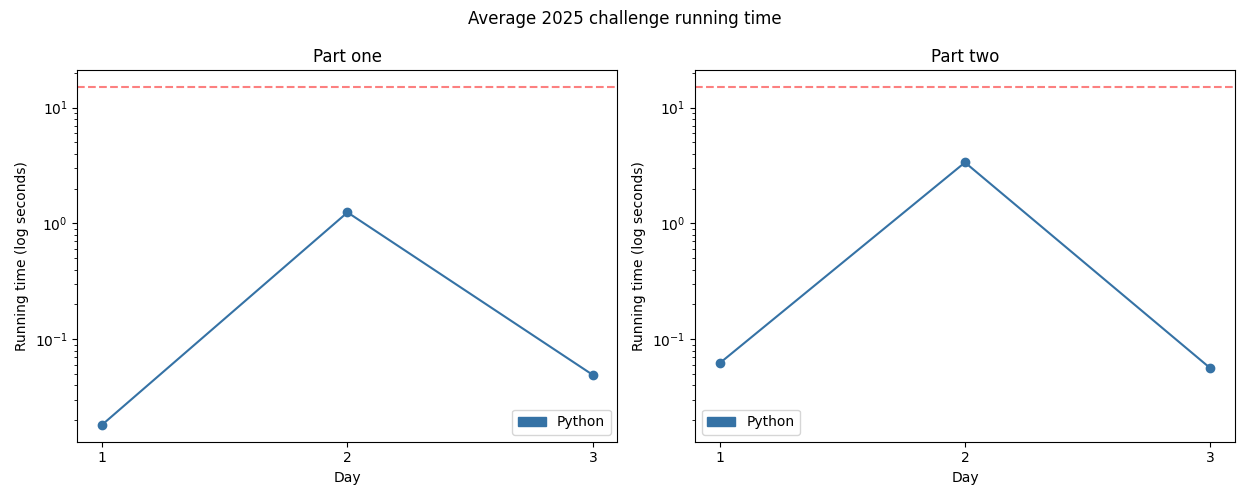
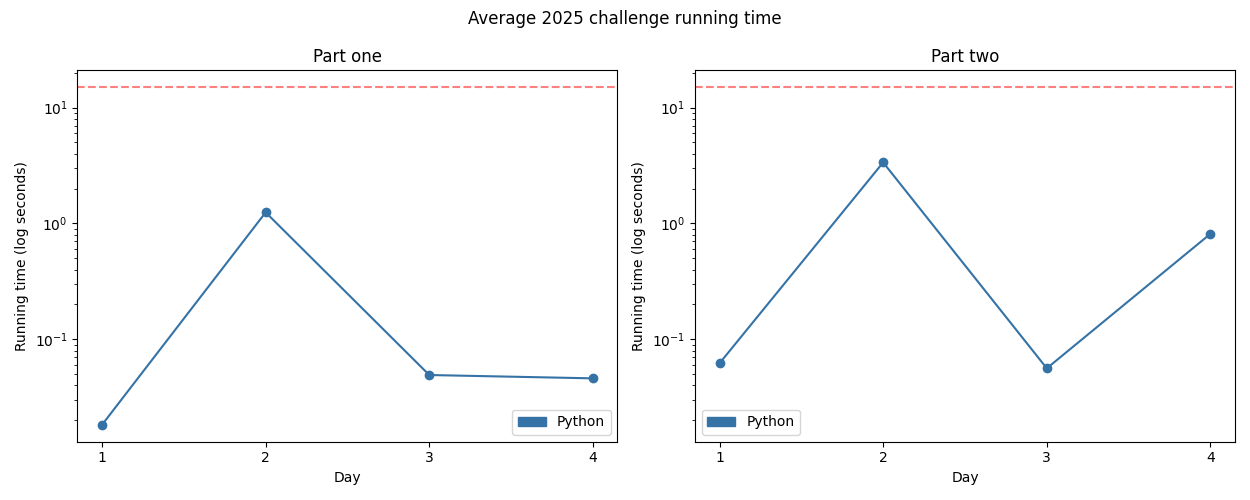
2025-04

diff --git a/challenges/2025/04-printingDepartment/main.py b/challenges/2025/04-printingDepartment/main.py
@@ -1,0 +1,62 @@
+import sys
+from collections import namedtuple, defaultdict
+
+
+Coord = namedtuple("Coord", ["x", "y"])
+
+
+def parse(instr: str) -> dict[Coord, str]:
+    res = {}
+    for y, line in enumerate(instr.splitlines()):
+        for x, char in enumerate(line):
+            res[Coord(x, y)] = char
+    return res
+
+
+def collect_movable(grid: dict[Coord, str]) -> set[Coord]:
+    res = set()
+    for pos in grid:
+        if grid[pos] == "@":
+            n = 0
+            for dx in (-1, 0, 1):
+                for dy in (-1, 0, 1):
+                    if not (dx == 0 and dy == 0):
+                        if grid.get((pos.x + dx, pos.y + dy)) == "@":
+                            n += 1
+            if n < 4:
+                res.add(pos)
+    return res
+
+
+def one(instr: str) -> int:
+    grid = parse(instr)
+    return len(collect_movable(grid))
+
+
+def two(instr: str) -> int:
+    grid = parse(instr)
+    n = 0
+    change = 1
+    while change != 0:
+        to_remove = collect_movable(grid)
+        change = len(to_remove)
+        n += change
+        for pos in to_remove:
+            grid[pos] = "."
+    return n
+
+
+def _debug(*args, **kwargs):
+    kwargs["file"] = sys.stderr
+    print(*args, **kwargs)
+
+
+if __name__ == "__main__":
+    if len(sys.argv) < 2 or sys.argv[1] not in ["1", "2"]:
+        print("Missing day argument", file=sys.stderr)
+        sys.exit(1)
+    inp = sys.stdin.read().strip()
+    if sys.argv[1] == "1":
+        print(one(inp))
+    else:
+        print(two(inp))

diff --git a/challenges/2025/04-printingDepartment/README.md b/challenges/2025/04-printingDepartment/README.md
@@ -1,0 +1,1 @@
+# [Day 4: Printing Department](https://adventofcode.com/2025/day/4)
